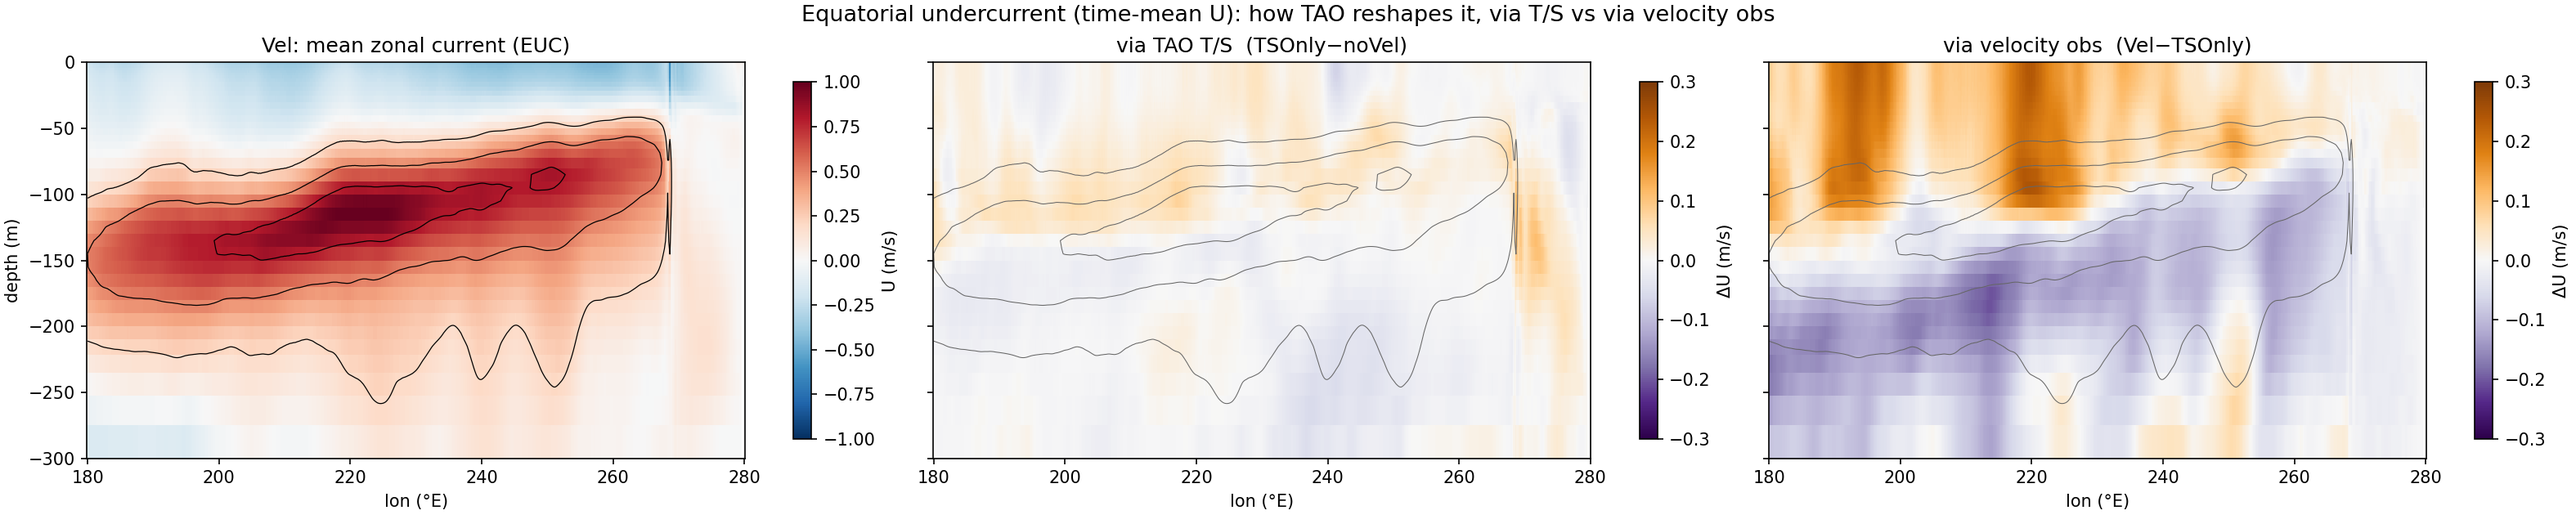
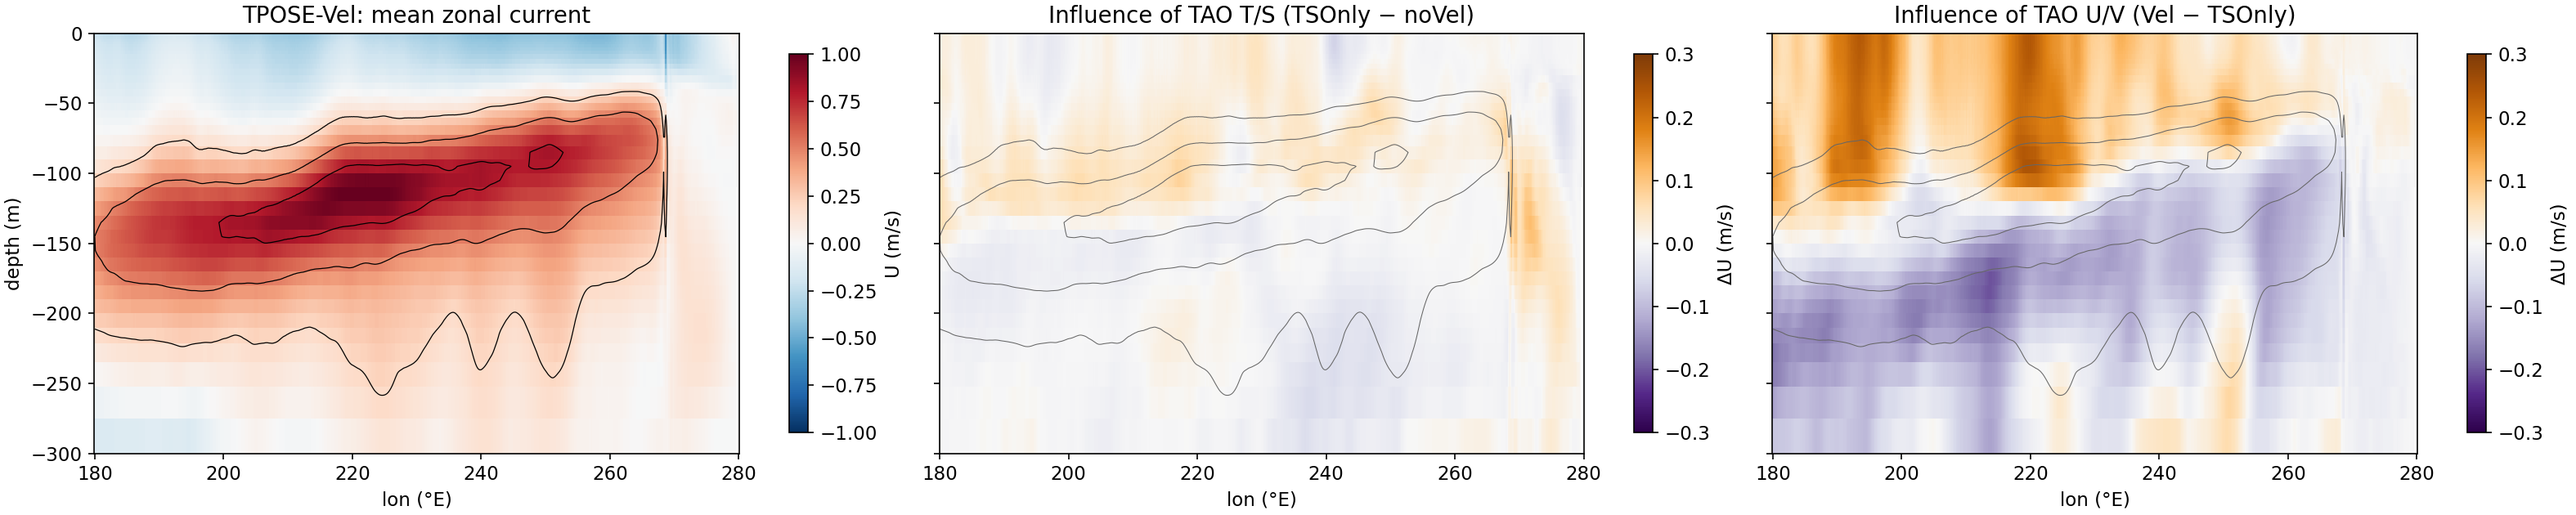
Rename EUC section panel titles, drop super title

diff --git a/summary_figs.py b/summary_figs.py
@@ -219,10 +219,10 @@ def fig_euc_section():
     fig, axs = plt.subplots(1, 3, figsize=(21, 4.2), sharey=True, constrained_layout=True)
     p0 = axs[0].pcolormesh(vel.XG, vel.Z, vel.values, cmap='RdBu_r', vmin=-1, vmax=1, shading='auto')
     axs[0].contour(vel.XG, vel.Z, vel.values, levels=[0.2, 0.5, 0.8], colors='k', linewidths=0.6)
-    axs[0].set_title('Vel: mean zonal current (EUC)')
+    axs[0].set_title('TPOSE-Vel: mean zonal current')
     fig.colorbar(p0, ax=axs[0], shrink=0.9, label='U (m/s)')
-    for ax, (da, title) in zip(axs[1:], [(ts_imp, 'via TAO T/S  (TSOnly−noVel)'),
-                                         (v_imp, 'via velocity obs  (Vel−TSOnly)')]):
+    for ax, (da, title) in zip(axs[1:], [(ts_imp, 'Influence of TAO T/S (TSOnly − noVel)'),
+                                         (v_imp, 'Influence of TAO U/V (Vel − TSOnly)')]):
         pc = ax.pcolormesh(da.XG, da.Z, da.values, cmap='PuOr_r', vmin=-0.3, vmax=0.3, shading='auto')
         ax.contour(vel.XG, vel.Z, vel.values, levels=[0.2, 0.5, 0.8], colors='0.4', linewidths=0.5)
         ax.set_title(title)
@@ -230,8 +230,6 @@ def fig_euc_section():
     for ax in axs:
         ax.set_xlabel('lon (°E)')
     axs[0].set_ylabel('depth (m)')
-    fig.suptitle('Equatorial undercurrent (time-mean U): how TAO reshapes it, via T/S vs via velocity obs',
-                 fontsize=13)
     fig.savefig(f'{OUT}/euc_section_by_obs.png', dpi=150); plt.close(fig)
     print('wrote euc_section_by_obs.png')
 
